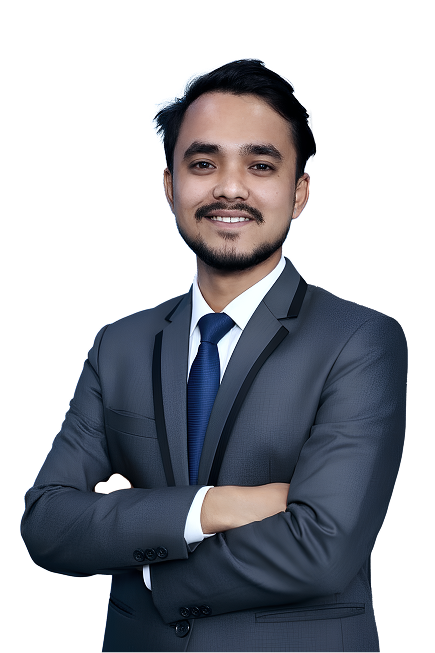
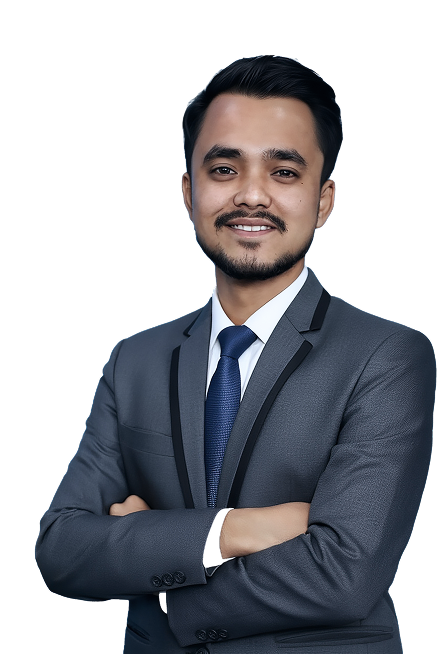
changes picture

diff --git a/app/myprofession/page.js b/app/myprofession/page.js
@@ -10,6 +10,7 @@ import image4 from "@/public/images/proffesion/image4.png";
 import image5 from "@/public/images/proffesion/image5.png";
 import image6 from "@/public/images/proffesion/image6.png";
 import image7 from "@/public/images/proffesion/image7.png";
+import bg from "@/public/images/myProfessionalBanner.png";
 import Image from "next/image";
 import { Marquee } from "@/components/ui/marquee";
 import { motion } from "framer-motion";
@@ -28,12 +29,33 @@ export default function MyProfession() {
     };
 
     return (
-        <section>
+        <section className="relative">
 
-            <section className="max-w-[1440px] mx-auto flex px-6 md:px-10 h-screen py-20">
+                <div className="absolute inset-0 -z-10  w-full h-full mx-auto"
+                    style={{
+                        backgroundImage: `url(${bg.src})`, backgroundSize: 'cover', backgroundPosition: 'center'
+                    }}  >
+
+                </div>
+            <section className=" max-w-[1440px] mx-auto flex px-6 md:px-10  overflow-x-hidden  pt-30">
                 <div className="flex lg:flex-row flex-col items-center gap-8">
 
                     {/* Left Side: Content */}
+                         <motion.div
+                        className="relative aspect-square xl:w-1/3 w-full lg:h-[600px] h-auto "
+                        initial="hidden"
+                        whileInView="visible"
+                        viewport={{ once: false, amount: 0.3 }}
+                        transition={{ duration: 0.8, ease: "easeOut", delay: 0.2 }}
+                        variants={rightVariants}
+                    >
+                        <Image
+                            src={profileImage}
+                            alt="Professional Journey"
+                            fill
+                            className="object-contain  transition-all duration-700 "
+                        />
+                    </motion.div>
 
                     <motion.div
                         className="space-y-4 text-[#FFFFFF] xl:w-2/3 w-full"
@@ -73,23 +95,8 @@ export default function MyProfession() {
                     </motion.div>
 
 
-                    {/* Right Side: Portrait */}
 
-                    <motion.div
-                        className="relative aspect-square xl:w-1/3 w-full lg:h-[600px] h-auto"
-                        initial="hidden"
-                        whileInView="visible"
-                        viewport={{ once: false, amount: 0.3 }}
-                        transition={{ duration: 0.8, ease: "easeOut", delay: 0.2 }}
-                        variants={rightVariants}
-                    >
-                        <Image
-                            src={profileImage}
-                            alt="Professional Journey"
-                            fill
-                            className="object-contain  transition-all duration-700"
-                        />
-                    </motion.div>
+               
 
 
                 </div>

diff --git a/app/banner.js/page.js b/app/banner.js/page.js
@@ -30,7 +30,7 @@ export default function Banner() {
 
 
                 {/* Main Content Container */}
-                <div className=" h-full flex flex-col items-center justify-center w-full   ">
+                <div className=" h-full flex flex-col items-center justify-center w-full font-  ">
 
                     {/* Main Title Center-Top */}
                     <div className="absolute  2xl:top-[20%]  lg:top-[20%] top-[15%] text-center ">
@@ -38,7 +38,7 @@ export default function Banner() {
                             <svg width="35" height="27" viewBox="0 0 35 27" fill="none" xmlns="http://www.w3.org/2000/svg">
                                 <path d="M0 0V2.5C0 9.41667 3.68333 15.4667 9.16667 18.8333V26.6667H34.1667V23.3333C34.1667 18.9 25.2833 16.6667 20.8333 16.6667H20.4167C12.5 16.6667 5.83333 10 5.83333 2.5V0M20.8333 0C19.0652 0 17.3695 0.702379 16.1193 1.95262C14.869 3.20286 14.1667 4.89856 14.1667 6.66667C14.1667 8.43478 14.869 10.1305 16.1193 11.3807C17.3695 12.631 19.0652 13.3333 20.8333 13.3333C22.6014 13.3333 24.2971 12.631 25.5474 11.3807C26.7976 10.1305 27.5 8.43478 27.5 6.66667C27.5 4.89856 26.7976 3.20286 25.5474 1.95262C24.2971 0.702379 22.6014 0 20.8333 0Z" fill="#E2E8F0" />
                             </svg>
-                            <p className=" text-[#E2E8F0]">
+                            <p className=" text-[#E2E8F0] font-[josefin-slab] tracking-[4px]">
                                 Hey, This Is Rahim Rehman Here
                             </p>
 
@@ -87,7 +87,7 @@ export default function Banner() {
 
                     {/* Profile Image (Centered & Higher Z-index) */}
                     <motion.div
-                        className="absolute -bottom-20"
+                        className="absolute -bottom-5"
                         initial={{ y: 120, opacity: 0 }}
                         whileInView={{ y: 0, opacity: 1 }}
                         viewport={{ once: false, amount: 0.3 }}
@@ -96,8 +96,8 @@ export default function Banner() {
                         <Image
                             src={profileImage}
                             alt="Rahim Rehman"
-                            width={480}
-                            height={480}
+                            width={440}
+                            height={656}
                             className="object-contain drop-shadow-[0_0_30px_rgba(0,0,0,0.5)] "
                             priority
                         />
@@ -122,7 +122,7 @@ export default function Banner() {
 
 
             </div>
-            <div className=" absolute bottom-5 w-full  bg-[#000000]   flex items-center">
+            <div className=" absolute bottom-5 w-full pb-2   bg-linear-to-b from-[#050D1B00] to-[#050D1B]   flex items-center">
                 <Marquee className="pt-6" pauseOnHover repeat={6} >
                     {tags.map((tag, index) => (
                         <div key={index} className="flex items-center gap-3 mx-4 ">

diff --git a/app/components/Toolbox.js b/app/components/Toolbox.js
@@ -72,7 +72,7 @@ export default function Toolbox() {
     };
 
     return (
-        <section className="relative w-full  py-30 xl:mt-30 lg:mt-12 md:mt-10 mt-0 md:mb-0 mb-20 h-screen">
+        <section className="relative w-full  py-30 lg:my-20 md:my-10 my-5   h-screen   ">
 
 
             <video
@@ -83,15 +83,16 @@ export default function Toolbox() {
                 loop
                 muted
             ></video>
+            
+            {/* Bottom Gradient Overlay */}
+            <div className="absolute bottom-0 left-0 w-full h-[50px] bg-linear-to-t from-[#000000] to-transparent pointer-events-none -z-10"></div>
                          <section className="w-full max-w-[1440px] mx-auto px-6 md:px-10 pb-20 overflow-hidden">
             {/* Header */}
             <div className="flex flex-col lg:flex-row justify-between items-start lg:gap-10 md:gap-2 gap-2 lg:mb-16">
                 <h2 className="text-[24px] md:text-[48px] lg:text-[56px] font-semibold font-['luxury'] text-white  max-w-2xl leading-tight">
                     Delivering Value Through My Skills
                 </h2>
-                {/* <p className="text-white/80 text-base md:text-lg max-w-lg  text-start">
-                   I offer a range of professional services designing to meet your business needs with precision and creativity
-                </p> */}
+               
             </div>
 
             {/* Service Cards */}
@@ -99,7 +100,7 @@ export default function Toolbox() {
                 {services.map((service, index) => (
                     <motion.div
                         key={index}
-                        className={`group lg:py-6 md:py-2 py-2 flex  justify-between items-start md:items-center lg:gap-6 md:gap-2 gap-2 transition-all hover:bg-white/2   ${index === 0 ? "border-t border-white/10" : "" || index === 1 ? "border-t border-white/10" : "" || index === 2 ? "border-t border-white/10 " : ""}`}
+                        className={`group lg:py-6 md:py-2 py-2 flex  justify-between items-start md:items-center lg:gap-6 md:gap-2 gap-2 transition-all    ${index === 0 ? "border-t border-white/10" : "" || index === 1 ? "border-t border-white/10" : "" || index === 2 ? "border-t border-white/10 " : ""}`}
                                             initial="hidden"
                                             whileInView="visible"
                                             viewport={{ once: false, amount: 0.5 }}

diff --git a/app/components/Navbar.js b/app/components/Navbar.js
@@ -55,10 +55,10 @@ export default function Navbar() {
                         ))}
                     </ul>
                     <div className="hidden md:block">
-                        <Link href="#contact">
+                        <Link href="https://drive.google.com/file/d/1M2ASLszmr64L_InDjKcc143opjjJ85Qt/view?usp=sharing" target="_blank">
                             <button className="relative overflow-hidden flex items-center gap-2 px-8 py-2.5 rounded-full bg-linear-to-r from-[#0A427D]/40 via-transparent to-[#0A427D]/40 text-white font-medium text-sm  border border-white/10 cursor-pointer group">
                                 <span className="relative z-10 flex items-center gap-2">
-                                    Hire Me
+                                    Resume
                                     <MdArrowOutward className="group-hover:translate-x-0.5 group-hover:-translate-y-0.5 transition-transform" />
                                 </span>
 

diff --git a/app/page.js b/app/page.js
@@ -17,13 +17,13 @@ export default function Home() {
   return (
     <main className="scroll-smooth">
       <Banner />
-       {/* <MyProfession /> */}
-      <RahimIntriduce />
+       <MyProfession />
+      <Toolbox />
       <section id="professional-journey">
         <ProfessionalJourney />
       </section>
+      <RahimIntriduce />
      
-      <Toolbox />
       <Skills />
       <Stats />
       
